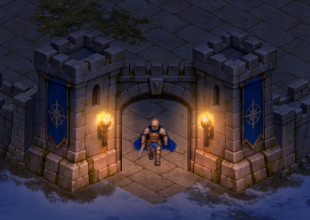
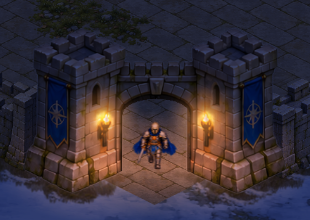
Record live gateway stability and lighting verification

Changed region(s): [[0.4065, 0.5455, 0.5806, 0.7909]]

diff --git a/docs/gateway-lighting/notes.md b/docs/gateway-lighting/notes.md
@@ -11,3 +11,9 @@ The sprite uses versioned `full-gateway-v3-*` URLs, and its canvas identifies it
 The production build, runtime stability in day/night, asset stability, lighting at noon/night/dusk, depth, passage/collision and 4× CPU mobile animation tests passed locally. Actual rendered frames: 0 changed stone pixels, 0 moved bounds, all 16 poses observed. At night, unlit masonry retains 27% of day luminance while torch-lit masonry retains 79%; flame luminance remains approximately 249/255.
 
 Checks: `verify-gateway-render.mjs`, `verify-gateway-lighting.mjs`, `verify-gateway-stability.mjs`, `verify-gateway-depth.mjs`, `verify-open-gate.mjs`, and `verify-gate-animation.mjs`. Publish the committed build with `node scripts/publish-gateway-lighting.mjs`.
+
+## Live release verification
+
+Implementation `664da53` was pushed to `feat/stronghold` and deployed. Live tests verified the `gateway-lightmap-v3` renderer and versioned assets, zero changed stone pixels and zero moved bounds at noon and night, restored local torch illumination and bright flame emission, and successful night → noon → night clock transitions.
+
+The final 390 × 844 / 4× CPU live animation check passed with p95 and maximum frame interval 33.4 ms, successful reversal, unchanged world/light/shadow counters, and no JavaScript errors. Reports and screenshots in this directory were captured from the public host.
